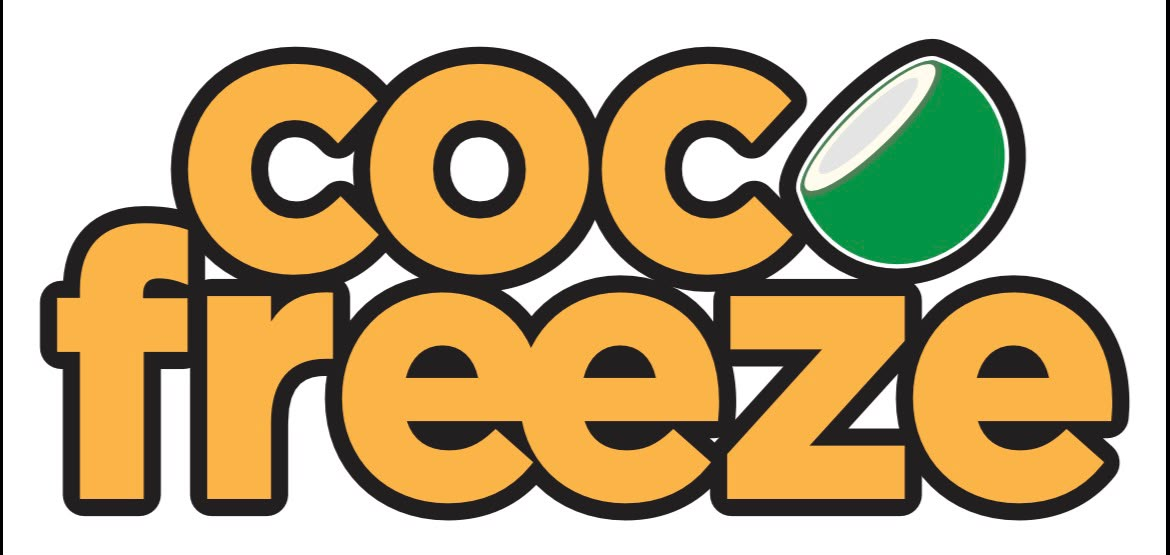
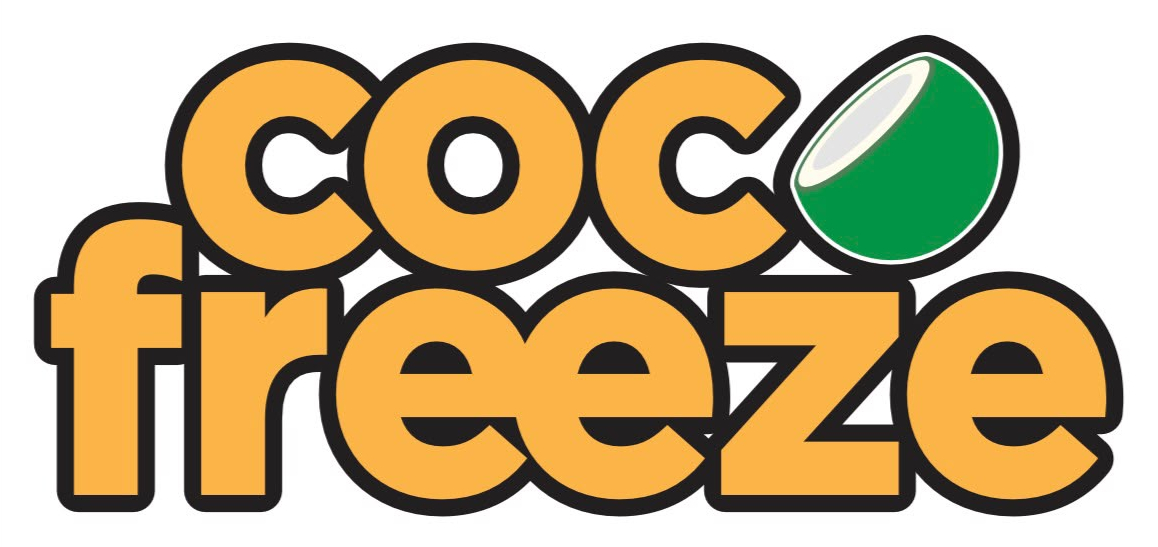
feat(ui): update brand cards and subpage layouts
- Simplify BrandsSection cards to display only images
- Remove redundant labels in NosotrosSubpage
- Remove unused imagery in SustainabilitySubpage
- Update Coco Freeze asset and card scaling styling

diff --git a/src/components/BrandsSection.tsx b/src/components/BrandsSection.tsx
@@ -31,8 +31,8 @@ const HOMEPAGE_BRANDS: BrandCardItem[] = [
     heroImage: cocoFreezeImg,
     imageFit: 'contain',
     objectPosition: 'center center',
-    imageScale: 'scale-100 group-hover:scale-108',
-    boxPadding: 'p-3 sm:p-4',
+    imageScale: 'scale-[1.10] sm:scale-[1.14] group-hover:scale-[1.18]',
+    boxPadding: 'p-2 sm:p-2.5',
   },
   {
     id: 'dhoy',
@@ -90,7 +90,7 @@ export const BrandsSection: React.FC<BrandsSectionProps> = ({
           </p>
         </div>
 
-        {/* 4 Cards bonitas en cuadros con imagen y nombre */}
+        {/* 4 Cards con SOLO la foto de la marca y la flechita (sin textos ni nombres) */}
         <div className="grid grid-cols-1 sm:grid-cols-2 lg:grid-cols-4 gap-6 sm:gap-8">
           {HOMEPAGE_BRANDS.map((brand) => (
             <div
@@ -98,42 +98,32 @@ export const BrandsSection: React.FC<BrandsSectionProps> = ({
               onClick={() => onSelectBrand(brand.slug)}
               className="group relative bg-[#FAFAF8] hover:bg-white rounded-3xl p-5 sm:p-6 border-2 border-stone-200/90 hover:border-[#5B8C2A] shadow-md hover:shadow-2xl transition-all duration-300 flex flex-col justify-between cursor-pointer hover:-translate-y-2"
             >
-              <div>
-                {/* Cuadro contenedor de la imagen */}
-                <div
-                  className={`w-full h-56 sm:h-64 rounded-2xl bg-white ${
-                    brand.boxPadding || 'p-0'
-                  } flex items-center justify-center overflow-hidden border border-stone-200/70 shadow-inner group-hover:border-[#5B8C2A]/40 transition-colors relative`}
-                >
-                  <img
-                    src={brand.heroImage}
-                    alt={brand.name}
-                    loading="lazy"
-                    decoding="async"
-                    referrerPolicy="no-referrer"
-                    style={{
-                      objectPosition: brand.objectPosition || 'center center',
-                    }}
-                    className={`w-full h-full transition-transform duration-500 ${
-                      brand.imageFit === 'cover'
-                        ? 'object-cover'
-                        : 'object-contain'
-                    } ${brand.imageScale || ''}`}
-                  />
-                </div>
-
-                {/* Título de la marca sin descripciones */}
-                <div className="mt-4">
-                  <h3 className="text-2xl font-black text-stone-900 group-hover:text-[#5B8C2A] transition-colors">
-                    {brand.name}
-                  </h3>
-                </div>
+              {/* Cuadro contenedor de la imagen */}
+              <div
+                className={`w-full h-56 sm:h-64 rounded-2xl bg-white ${
+                  brand.boxPadding || 'p-0'
+                } flex items-center justify-center overflow-hidden border border-stone-200/70 shadow-inner group-hover:border-[#5B8C2A]/40 transition-colors relative`}
+              >
+                <img
+                  src={brand.heroImage}
+                  alt={brand.name}
+                  loading="lazy"
+                  decoding="async"
+                  referrerPolicy="no-referrer"
+                  style={{
+                    objectPosition: brand.objectPosition || 'center center',
+                  }}
+                  className={`w-full h-full transition-transform duration-500 ${
+                    brand.imageFit === 'cover'
+                      ? 'object-cover'
+                      : 'object-contain'
+                  } ${brand.imageScale || ''}`}
+                />
               </div>
 
-              {/* Pie del cuadro con botón de acción */}
-              <div className="mt-5 pt-3.5 border-t border-stone-200/60 flex items-center justify-between text-xs sm:text-sm font-bold uppercase tracking-wider text-[#5B8C2A]">
-                <span>{language === 'es' ? 'Ver marca' : 'Explore brand'}</span>
-                <div className="w-8 h-8 rounded-full bg-[#5B8C2A]/10 group-hover:bg-[#5B8C2A] text-[#5B8C2A] group-hover:text-white flex items-center justify-center transition-all duration-300 transform group-hover:translate-x-1">
+              {/* Pie de la tarjeta: solo la flechita sin texto */}
+              <div className="mt-4 pt-3.5 border-t border-stone-200/60 flex items-center justify-end">
+                <div className="w-9 h-9 rounded-full bg-[#5B8C2A]/10 group-hover:bg-[#5B8C2A] text-[#5B8C2A] group-hover:text-white flex items-center justify-center transition-all duration-300 transform group-hover:translate-x-1 shadow-xs">
                   <ArrowRight className="w-4 h-4" />
                 </div>
               </div>

diff --git a/src/components/SustainabilitySubpage.tsx b/src/components/SustainabilitySubpage.tsx
@@ -6,7 +6,6 @@ import { Footer } from './Footer';
 import fotoEcopacificImg from '../assets/images/fotoecopacific.jpg';
 import campo3Img from '../assets/images/campo3.jpg';
 import laFabrica1Img from '../assets/images/lafabrica-1.jpg';
-import laFabricaImg from '../assets/images/lafabrica.jpg';
 
 interface SustainabilitySubpageProps {
   language: Language;
@@ -136,19 +135,6 @@ export const SustainabilitySubpage: React.FC<SustainabilitySubpageProps> = ({
           </p>
         </div>
       </main>
-
-      {/* IMAGEN: Abajo de ahorro de energía (lafabrica.jpg) */}
-      <div className="w-full max-w-6xl mx-auto px-6 sm:px-10 pb-20 sm:pb-28">
-        <div className="w-full h-64 sm:h-96 md:h-[460px] rounded-2xl sm:rounded-3xl overflow-hidden shadow-lg border border-stone-200">
-          <img
-            src={laFabricaImg}
-            alt="EcoPacific - Planta y fábrica de producción"
-            loading="lazy"
-            decoding="async"
-            className="w-full h-full object-cover object-center"
-          />
-        </div>
-      </div>
 
       {/* Global Footer */}
       <Footer

diff --git a/src/components/NosotrosSubpage.tsx b/src/components/NosotrosSubpage.tsx
@@ -48,9 +48,6 @@ export const NosotrosSubpage: React.FC<NosotrosSubpageProps> = ({
         </div>
 
         <div className="relative z-10 max-w-4xl mx-auto px-6 sm:px-10 text-center">
-          <span className="text-xs sm:text-sm font-bold uppercase tracking-widest text-emerald-200 block mb-3">
-            {language === 'es' ? 'Nuestra Empresa' : 'Our Company'}
-          </span>
           <h1 className="text-3xl sm:text-5xl lg:text-6xl font-black tracking-tight text-white mb-4 leading-tight">
             {h.title}
           </h1>
